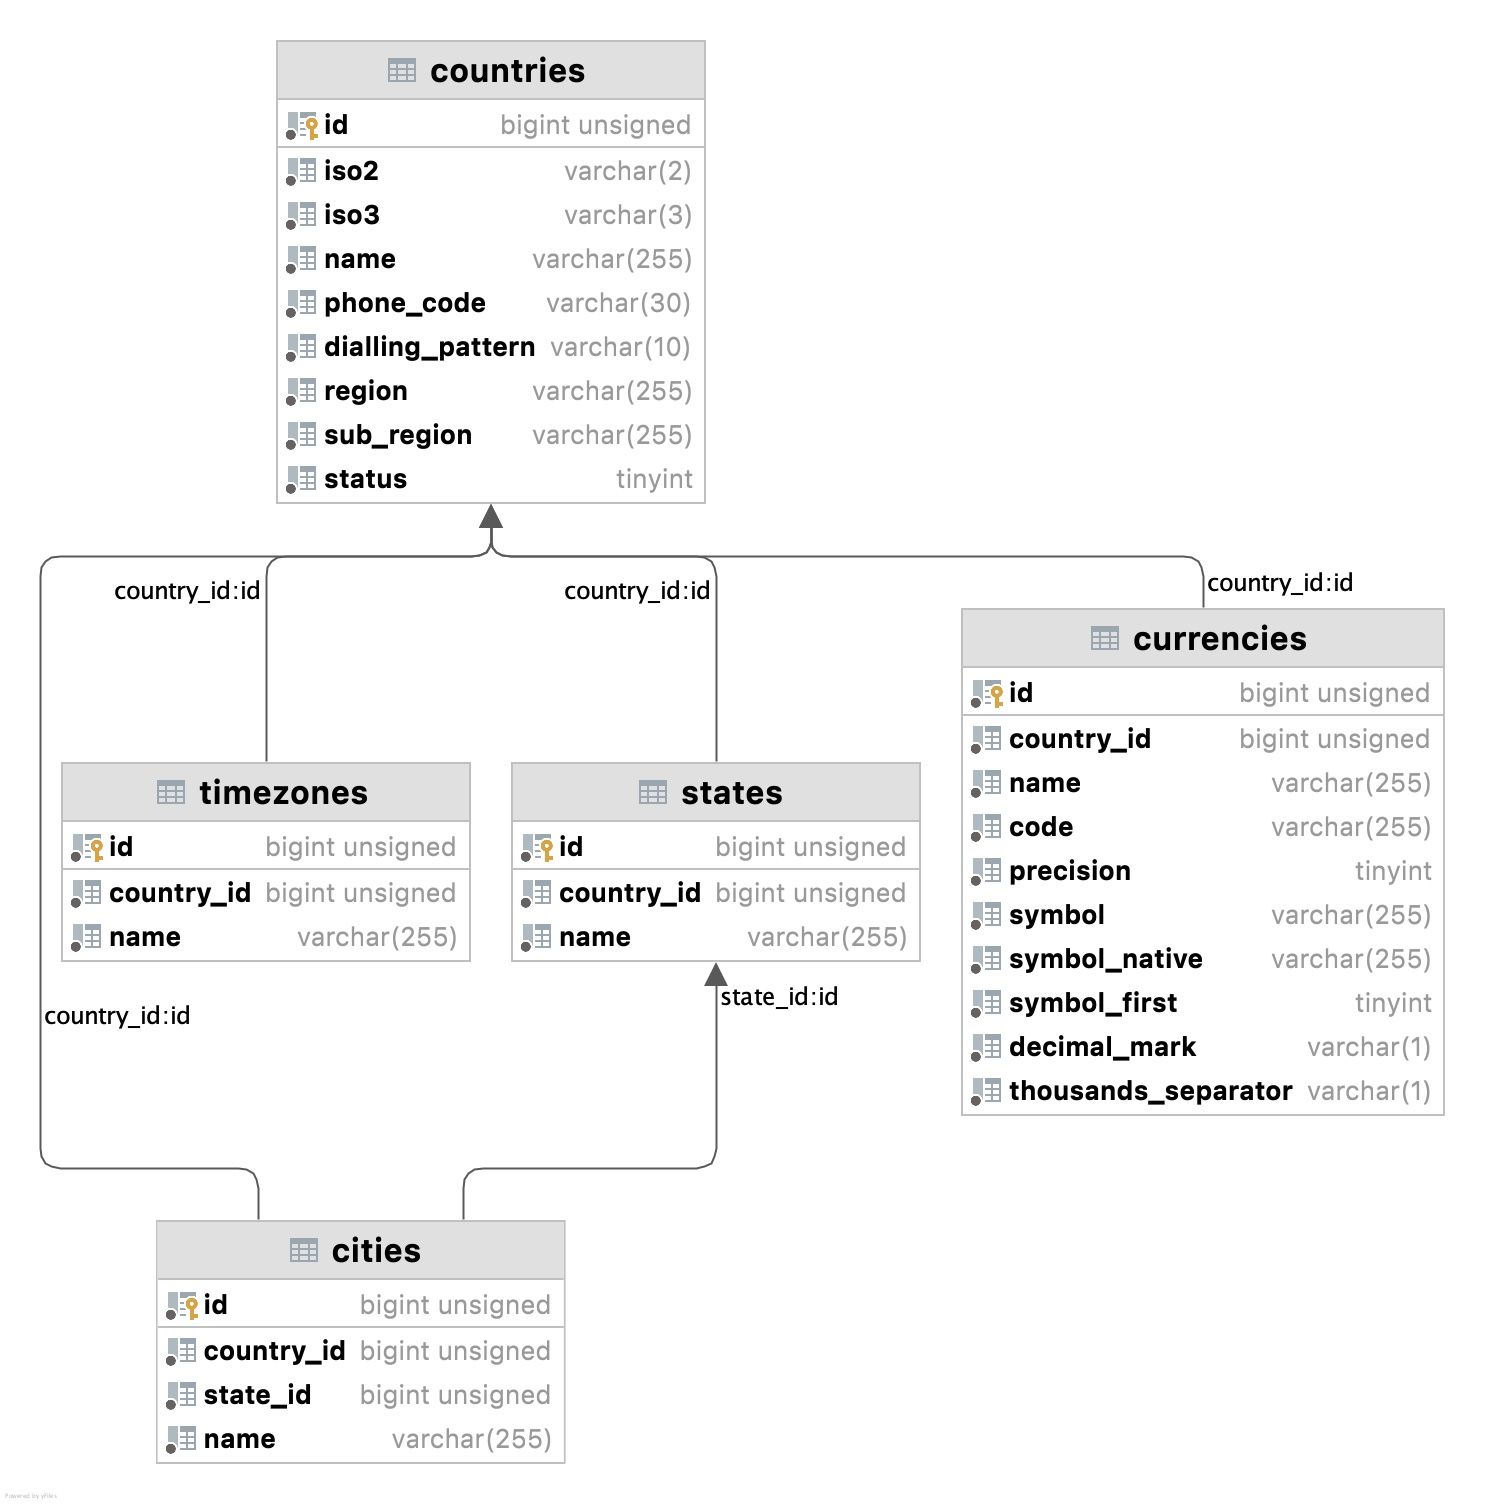
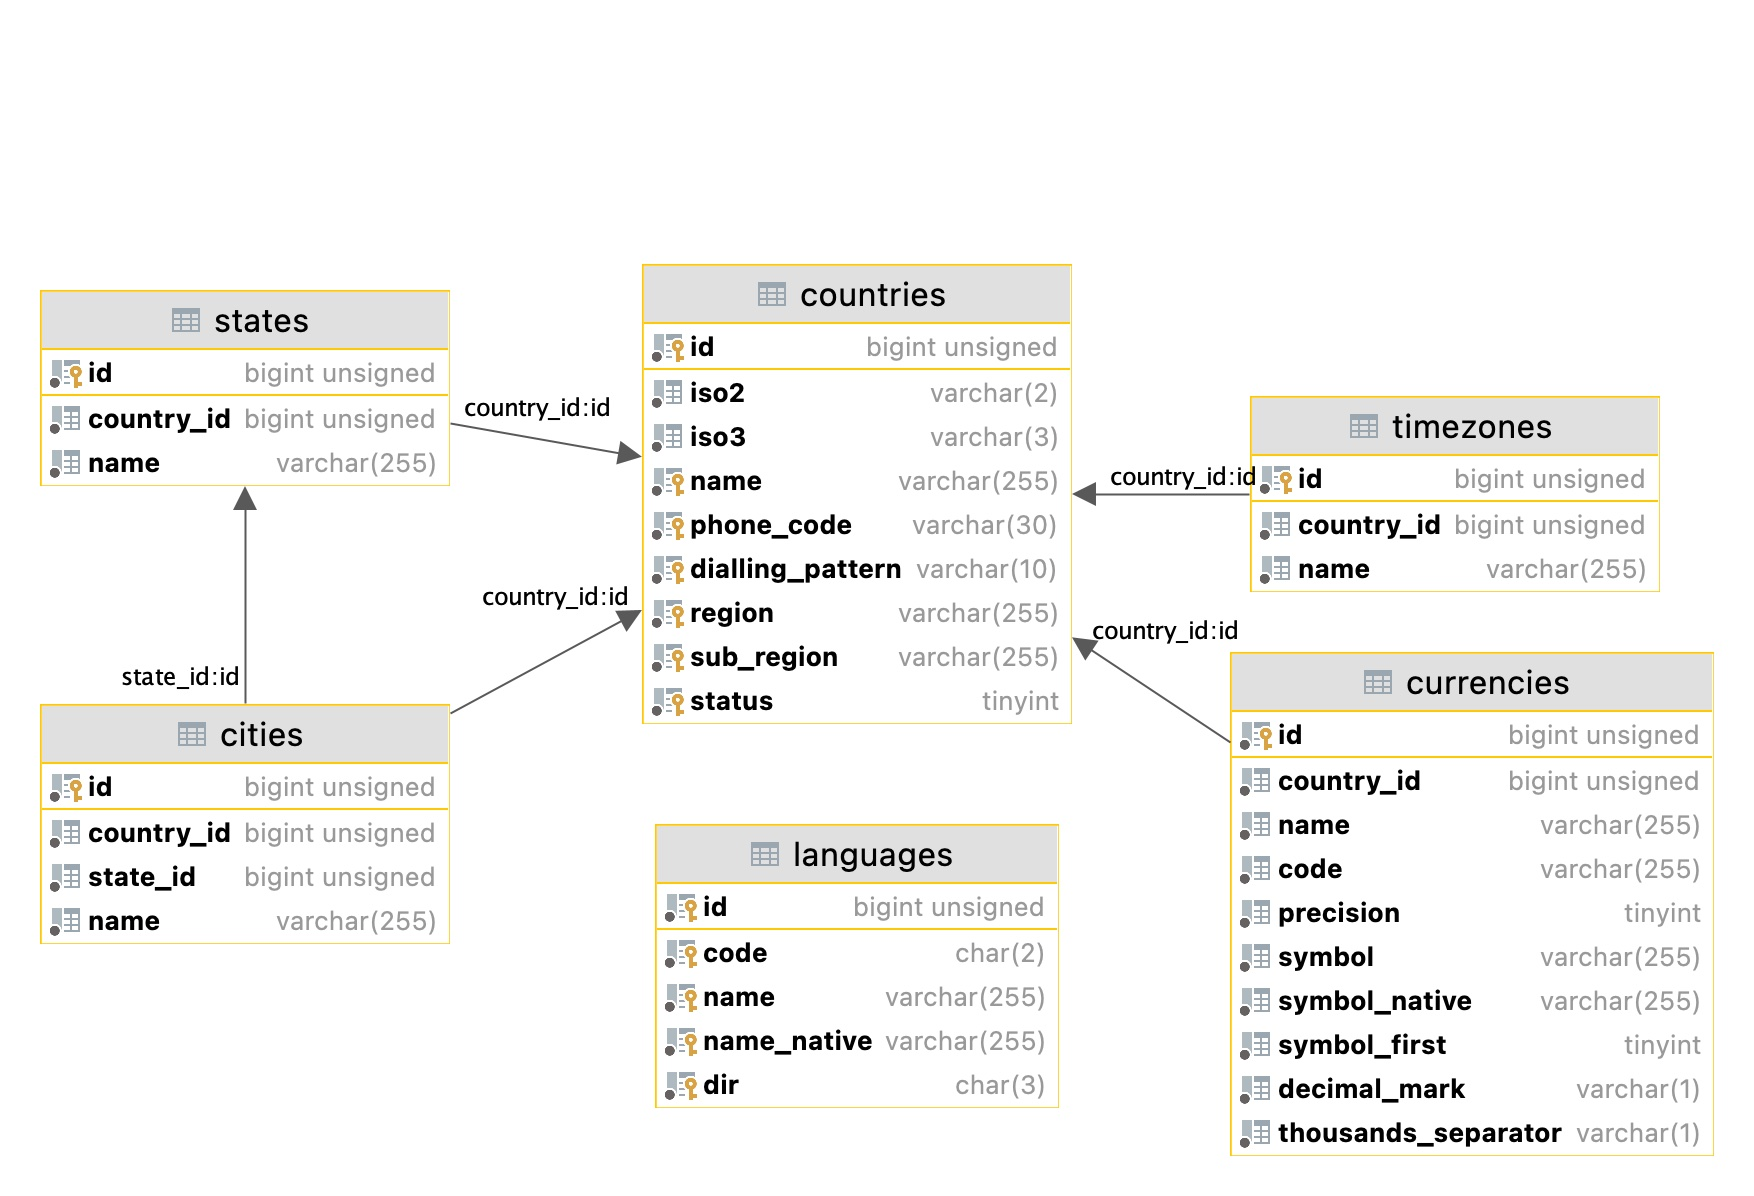
update schema diagram

Changed region(s): [[0.0, 0.0, 0.9906, 0.99]]

diff --git a/README.md b/README.md
@@ -1,8 +1,8 @@
 <p><img src="./logo.jpg" width="150" alt="Laravel world"/></p>
 
-A Laravel package which provides a list of the countries, states, cities, timezones, currencies and languages.
+The World is a Laravel package which provides a list of the countries, states, cities, timezones, currencies and languages.
 
-The world package can be consumed with the World Facade, Helpers and Api routes.
+It can be consumed with the World Facade or the defined Api routes.
 
 ### Installation
 
@@ -13,12 +13,12 @@ php artisan vendor:publish --tag=world
 
 php artisan migrate
 
-php artisan db:seed --class=WorldSeeder (requires ~ 5 - 10min)
+php artisan db:seed --class=WorldSeeder (requires ~ 10 - 15min)
 ```
 
 ### Upgrading to the latest version? 
-- Delete the published `world.php` config file from `config`.   
-- Delete the `WorldSeeder.php` from `database/seeders`
+- Delete the published `world.php` file from `config`.   
+- Delete the `WorldSeeder.php` file from `database/seeders`
 - Re-publish the package assets by issuing the command `php artisan vendor:publish --tag=world`
 
 ### Changelog
@@ -38,11 +38,9 @@ https://laravel-world.com/api/states?filters[country_id]=182&fields=cities
 
 ### Usage
 
-#### World Facade
+#### List all the countries.
 
-##### List all the countries.
-
-Use the world facade  
+Use the World facade  
 
 ``` 
 use Nnjeim\World\World;
@@ -79,9 +77,9 @@ Use the Api countries endpoint
 https://myDomain.local/api/countries
 ```
 
-##### Fetch a country with its states and cities.
+#### Fetch a country with its states and cities.
 
-Use the world facade  
+Use the World facade  
 
 ``` 
 use Nnjeim\World\World;
@@ -140,9 +138,7 @@ Use the Api countries endpoint
 https://myDomain.local/api/countries?fields=states,cities&filters[iso2]=FR
 ```
 
-#### World Helper Class
-
-##### List all the cities by country id.
+#### List all the cities by country id.
 
 ``` 
 use Nnjeim\World\WorldHelper;
@@ -166,7 +162,12 @@ if ($action->success) {
 }
 ```
 
-#### Available actions
+Use the Api cities endpoint
+```
+https://myDomain.local/api/cities?filters[country_id]=182
+```
+
+### Available actions
 
 | Name       | Description                   |
 |:-----------|:------------------------------|
@@ -214,11 +215,11 @@ An action response is formed as below:
 * fields*: comma seperated string(languages table fields).
 * filters*: array of keys(languages table fields) and their corresponding values.
 
-### Available routes
+### Available Api routes
 
 All routes can be prefixed by any string. Ex admin, api, api ...
 
-##### Countries
+#### Countries
 
 | | |
 | :--- | :--- |
@@ -228,7 +229,7 @@ All routes can be prefixed by any string. Ex admin, api, api ...
 | Example | /api/countries?fields=iso2,cities&filters[phone_code]=44 |   
 | response | success, message, data |  
 
-##### States
+#### States
 
 | | |
 | :--- | :--- |
@@ -238,7 +239,7 @@ All routes can be prefixed by any string. Ex admin, api, api ...
 | Example | /api/states?fields=country,cities&filters[country_id]=182 |   
 | response | success, message, data |   
 
-##### Cities
+#### Cities
 
 | | |
 | :--- | :--- |
@@ -248,7 +249,7 @@ All routes can be prefixed by any string. Ex admin, api, api ...
 | Example | /api/cities?fields=country,state&filters[country_id]=182 |   
 | response | success, message, data | 
 
-##### Timezones
+#### Timezones
 
 | | |
 | :--- | :--- |
@@ -258,7 +259,7 @@ All routes can be prefixed by any string. Ex admin, api, api ...
 | Example | /api/timezones?fields=country&filters[country_id]=182 |   
 | response | success, message, data | 
 
-##### Currencies
+#### Currencies
 
 | |                                                                                       |
 | :--- |:--------------------------------------------------------------------------------------|
@@ -268,7 +269,7 @@ All routes can be prefixed by any string. Ex admin, api, api ...
 | Example | /api/timezones?fields=country&filters[country_id]=182                                  |   
 | response | success, message, data                                                                |
 
-##### Languages
+#### Languages
 
 | |                          |
 | :--- |:-------------------------|
@@ -278,7 +279,7 @@ All routes can be prefixed by any string. Ex admin, api, api ...
 | Example | /api/languages?fields=dir |   
 | response | success, message, data   |
 
-##### Validate Number
+#### Validate Number
 
 | | |
 | :--- | :--- |
@@ -287,7 +288,7 @@ All routes can be prefixed by any string. Ex admin, api, api ...
 | Parameters | key, value |
 | Example | /api/phones/validate?number=060550987&phone_code=33 |
 
-##### Strip Number
+#### Strip Number
 
 | | |
 | :--- | :--- |
@@ -296,7 +297,7 @@ All routes can be prefixed by any string. Ex admin, api, api ...
 | Parameters | key, value |
 | Example | /api/phones/strip?number=060550987&phone_code=33 |
 
-##### Format Number
+#### Format Number
 
 | | |
 | :--- | :--- |
@@ -337,43 +338,7 @@ World::setLocale('zh')->countries();
 
 ### Schema
 
-<p><img src="./schema.jpg" width="600px"/></p>
-
-#### Countries database table fields
-
-```
-id, name, iso2, iso3, phone_code, dialling_pattern, region, sub_region, status
-```
-
-#### States database table fields
-
-```
-id, name, country_id
-```
-
-#### Cities database table fields
-
-```
-id, name, state_id, country_id
-```
-
-#### Timezones database table fields
-
-```
-id, name, country_id
-```
-
-#### Currencies database table fields
-
-```
-id, country_id, name, code, precision, symbol, symbol_native, symbol_first, decimal_mark, thousands_separator
-```
-
-#### Languages database table fields
-
-```
-id, code, name, native_name, dir
-```
+<p><img src="./schema.jpg" width="800px"/></p>
 
 ### Testing  
 
